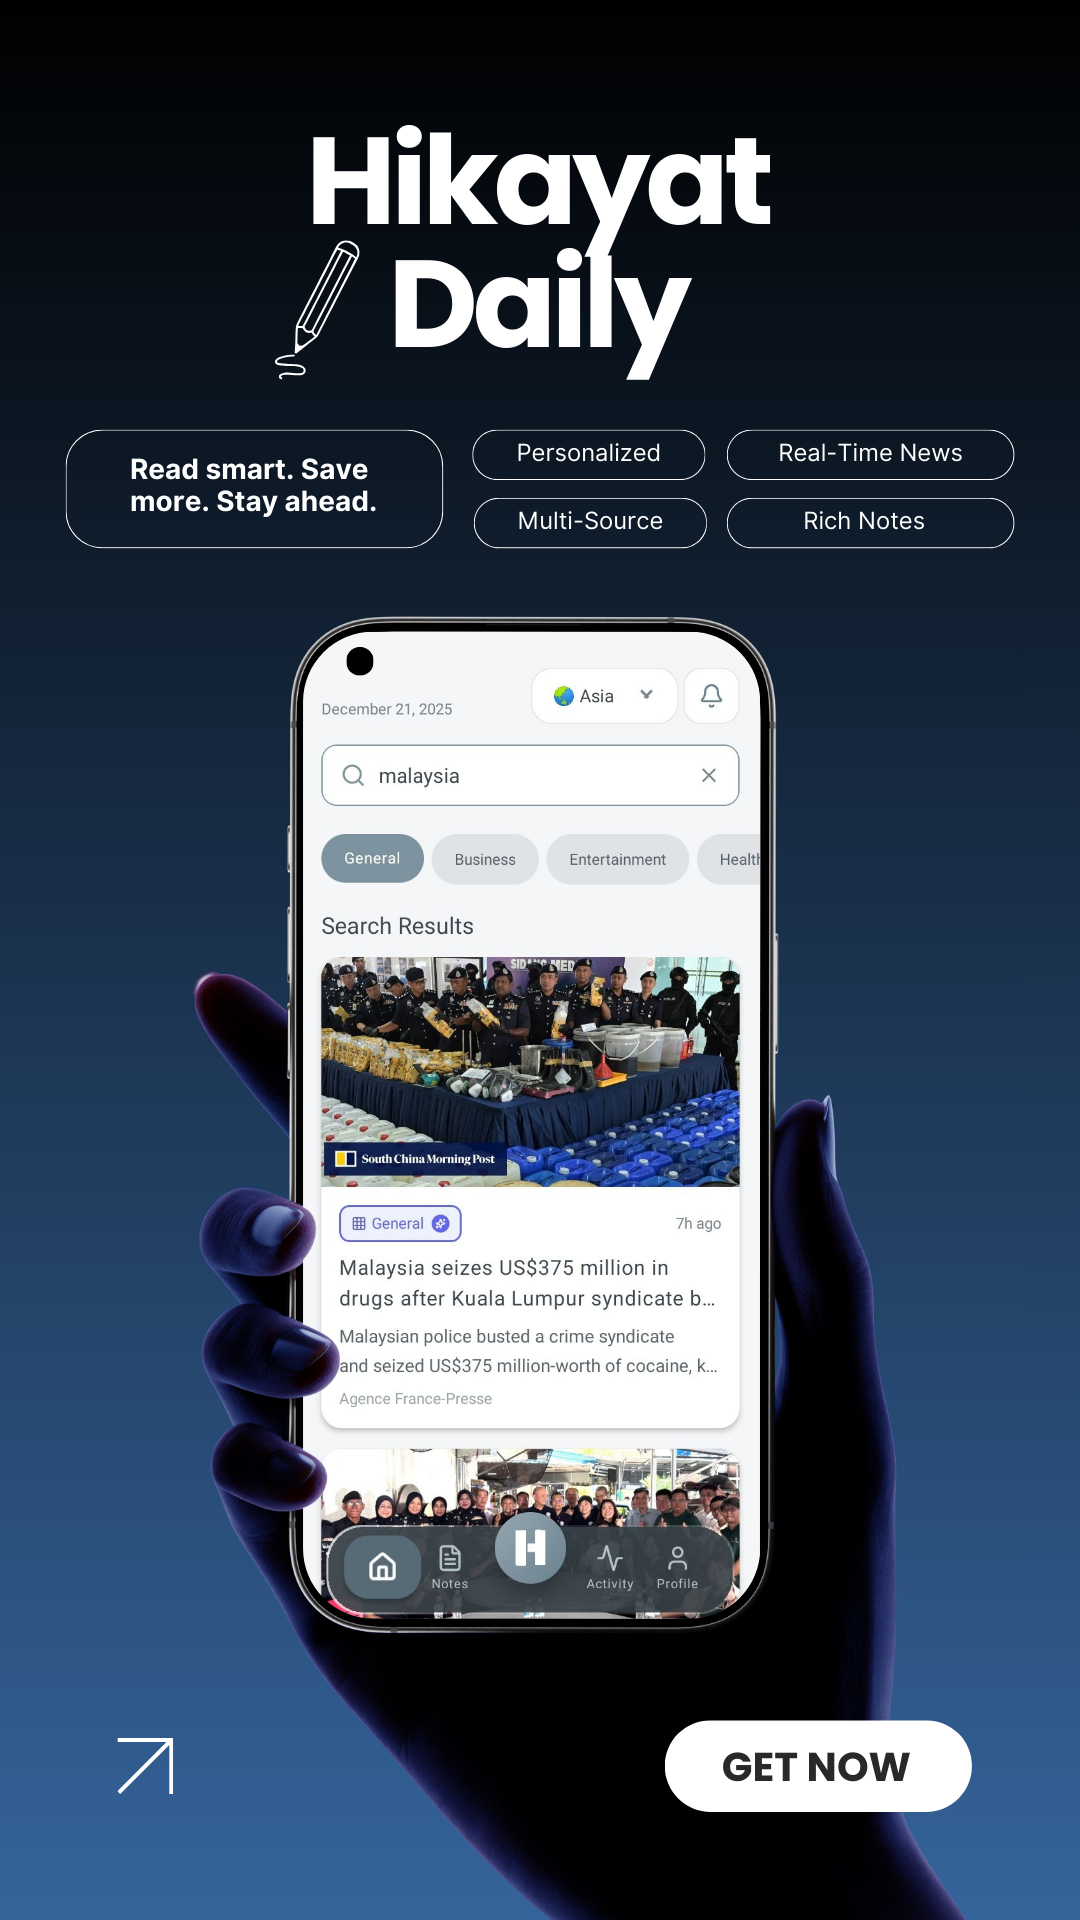
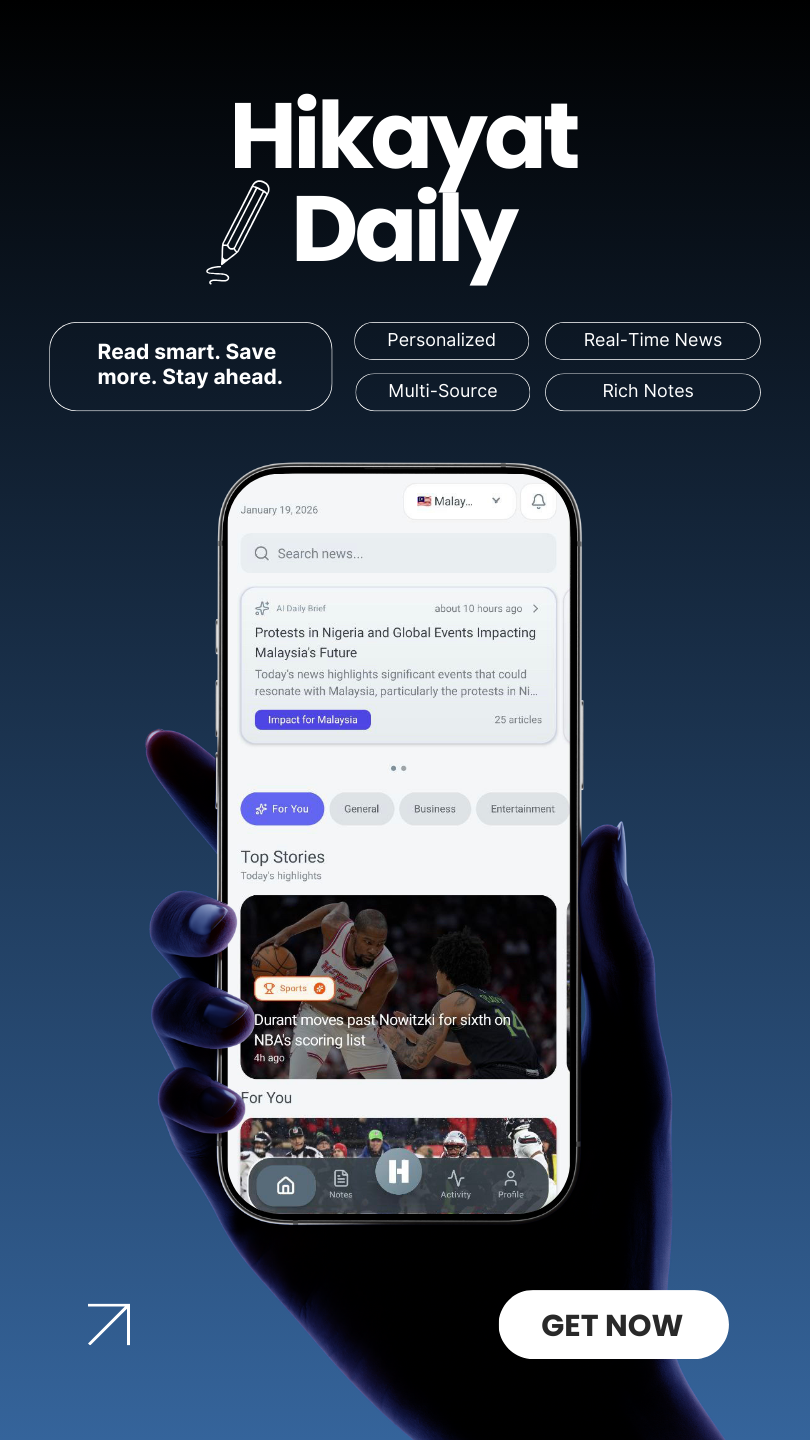
enhance: add more screenshot and fix action button

diff --git a/index.html b/index.html
@@ -3,19 +3,121 @@
 <head>
   <meta charset="UTF-8" />
   <meta name="viewport" content="width=device-width, initial-scale=1.0" />
-  <meta name="description" content="Hikayat Daily – Your AI-powered news companion. Stay informed, stay inspired with personalized news, smart summaries, and note-taking for the Asia-Pacific region." />
-  <meta name="keywords" content="news app, AI news, Malaysia news, Asia news, news aggregator, note taking, reading analytics" />
-  <meta property="og:title" content="Hikayat Daily - Stay Informed, Stay Inspired" />
-  <meta property="og:description" content="AI-powered news intelligence with personalized feeds, smart summaries, and integrated note-taking." />
-  <meta property="og:image" content="/assets/HikayatDaily.png" />
+  
+  <!-- Primary Meta Tags -->
+  <title>Hikayat Daily - AI-Powered News App | Stay Informed, Stay Inspired</title>
+  <meta name="title" content="Hikayat Daily - AI-Powered News App | Stay Informed, Stay Inspired" />
+  <meta name="description" content="Hikayat Daily is your AI-powered news companion. Get personalized news, smart AI summaries, note-taking, and reading analytics. Available on Android with focus on Malaysia and Asia-Pacific news." />
+  <meta name="keywords" content="news app, AI news, Malaysia news, Asia news, Singapore news, news aggregator, note taking app, reading analytics, personalized news, AI summaries, daily brief, Hikayat Daily, Asia Pacific news, breaking news Malaysia" />
+  <meta name="author" content="Hikayat Daily" />
+  <meta name="robots" content="index, follow" />
+  <meta name="language" content="English" />
+  <meta name="revisit-after" content="7 days" />
+  <meta name="theme-color" content="#0D9488" />
+  
+  <!-- Canonical URL -->
+  <link rel="canonical" href="https://hikayatdaily.com/" />
+  
+  <!-- Open Graph / Facebook -->
   <meta property="og:type" content="website" />
+  <meta property="og:url" content="https://hikayatdaily.com/" />
+  <meta property="og:title" content="Hikayat Daily - AI-Powered News App | Stay Informed, Stay Inspired" />
+  <meta property="og:description" content="Your AI-powered news companion. Get personalized news, smart AI summaries, and integrated note-taking. Now available on Android." />
+  <meta property="og:image" content="https://hikayatdaily.com/assets/HikayatDaily.png" />
+  <meta property="og:image:width" content="1200" />
+  <meta property="og:image:height" content="630" />
+  <meta property="og:site_name" content="Hikayat Daily" />
+  <meta property="og:locale" content="en_US" />
+  
+  <!-- Twitter -->
   <meta name="twitter:card" content="summary_large_image" />
-  <title>Hikayat Daily - Stay Informed, Stay Inspired</title>
+  <meta name="twitter:url" content="https://hikayatdaily.com/" />
+  <meta name="twitter:title" content="Hikayat Daily - AI-Powered News App | Stay Informed, Stay Inspired" />
+  <meta name="twitter:description" content="Your AI-powered news companion. Get personalized news, smart AI summaries, and integrated note-taking. Now available on Android." />
+  <meta name="twitter:image" content="https://hikayatdaily.com/assets/HikayatDaily.png" />
+  
+  <!-- Apple Meta Tags -->
+  <meta name="apple-mobile-web-app-capable" content="yes" />
+  <meta name="apple-mobile-web-app-status-bar-style" content="default" />
+  <meta name="apple-mobile-web-app-title" content="Hikayat Daily" />
+  <link rel="apple-touch-icon" href="/assets/HikayatDaily.png" />
+  
+  <!-- Android Meta Tags -->
+  <meta name="mobile-web-app-capable" content="yes" />
+  <link rel="manifest" href="/manifest.json" />
+  
+  <!-- Favicon -->
   <link rel="icon" type="image/png" href="/assets/HikayatDaily.png" />
+  <link rel="icon" type="image/png" sizes="32x32" href="/assets/HikayatDaily.png" />
+  <link rel="icon" type="image/png" sizes="16x16" href="/assets/HikayatDaily.png" />
   <link rel="preconnect" href="https://fonts.googleapis.com" />
   <link rel="preconnect" href="https://fonts.gstatic.com" crossorigin />
   <link href="https://fonts.googleapis.com/css2?family=Roboto:wght@300;400;500;700;900&display=swap" rel="stylesheet" />
   <link rel="stylesheet" href="/styles.css" />
+  
+  <!-- Structured Data (JSON-LD) for Rich Snippets -->
+  <script type="application/ld+json">
+  {
+    "@context": "https://schema.org",
+    "@type": "MobileApplication",
+    "name": "Hikayat Daily",
+    "description": "AI-powered news companion with personalized feeds, smart summaries, and integrated note-taking for the Asia-Pacific region.",
+    "applicationCategory": "NewsApplication",
+    "operatingSystem": "Android",
+    "offers": {
+      "@type": "Offer",
+      "price": "0",
+      "priceCurrency": "USD"
+    },
+    "aggregateRating": {
+      "@type": "AggregateRating",
+      "ratingValue": "5",
+      "ratingCount": "1"
+    },
+    "author": {
+      "@type": "Organization",
+      "name": "Hikayat Daily",
+      "url": "https://hikayatdaily.com"
+    },
+    "downloadUrl": "https://play.google.com/store/apps/details?id=com.hikayatdailyglobal",
+    "screenshot": "https://hikayatdaily.com/assets/Personalized.png",
+    "featureList": [
+      "AI-powered news summaries",
+      "Personalized news feed",
+      "Integrated note-taking",
+      "Reading analytics",
+      "Multi-region news coverage",
+      "Offline reading support"
+    ]
+  }
+  </script>
+  <script type="application/ld+json">
+  {
+    "@context": "https://schema.org",
+    "@type": "Organization",
+    "name": "Hikayat Daily",
+    "url": "https://hikayatdaily.com",
+    "logo": "https://hikayatdaily.com/assets/HikayatDaily.png",
+    "description": "Your AI-powered news companion. Stay informed, stay inspired.",
+    "email": "hikayatdaily.app@gmail.com",
+    "sameAs": [
+      "https://play.google.com/store/apps/details?id=com.hikayatdailyglobal"
+    ]
+  }
+  </script>
+  <script type="application/ld+json">
+  {
+    "@context": "https://schema.org",
+    "@type": "WebSite",
+    "name": "Hikayat Daily",
+    "url": "https://hikayatdaily.com",
+    "potentialAction": {
+      "@type": "SearchAction",
+      "target": "https://hikayatdaily.com/?q={search_term_string}",
+      "query-input": "required name=search_term_string"
+    }
+  }
+  </script>
 </head>
 <body>
   <!-- Navigation -->
@@ -91,7 +193,7 @@
           </div>
         </div>
         <div class="hero-visual">
-          <img src="/assets/Personalized.png" alt="Hikayat Daily App" class="hero-mockup" />
+          <img src="/assets/HeroIntro.png" alt="Hikayat Daily App" class="hero-mockup" />
         </div>
       </div>
     </div>
@@ -224,11 +326,20 @@
     </div>
     <div class="screenshots-scroll">
       <div style="width: 24px; flex-shrink: 0;"></div>
+
       <article class="screenshot-card">
         <img src="/assets/Intro.png" alt="Welcome Screen" loading="lazy" />
         <div class="screenshot-card-body">
           <h3>Welcome Experience</h3>
           <p>Clean onboarding that gets you started in seconds.</p>
+        </div>
+      </article>
+      
+      <article class="screenshot-card">
+        <img src="/assets/AIsummary.png" alt="AI Summary" loading="lazy" />
+        <div class="screenshot-card-body">
+          <h3>AI Summary</h3>
+          <p>Smart summaries of the top stories you need to know.</p>
         </div>
       </article>
       <article class="screenshot-card">
@@ -252,6 +363,7 @@
           <p>Track your reading habits and progress.</p>
         </div>
       </article>
+      
       <div style="width: 24px; flex-shrink: 0;"></div>
     </div>
   </section>

diff --git a/privacy-policy.html b/privacy-policy.html
@@ -3,8 +3,32 @@
 <head>
   <meta charset="UTF-8" />
   <meta name="viewport" content="width=device-width, initial-scale=1.0" />
-  <title>Privacy Policy · Hikayat Daily</title>
+  
+  <!-- Primary Meta Tags -->
+  <title>Privacy Policy - Hikayat Daily | Your Data Security</title>
+  <meta name="title" content="Privacy Policy - Hikayat Daily | Your Data Security" />
+  <meta name="description" content="Learn how Hikayat Daily protects your privacy. Read our privacy policy about data collection, usage, storage, and your rights as a user." />
+  <meta name="robots" content="index, follow" />
+  <meta name="theme-color" content="#0D9488" />
+  
+  <!-- Canonical URL -->
+  <link rel="canonical" href="https://hikayatdaily.com/privacy-policy.html" />
+  
+  <!-- Open Graph / Facebook -->
+  <meta property="og:type" content="website" />
+  <meta property="og:url" content="https://hikayatdaily.com/privacy-policy.html" />
+  <meta property="og:title" content="Privacy Policy - Hikayat Daily" />
+  <meta property="og:description" content="Learn how Hikayat Daily protects your privacy and handles your data." />
+  <meta property="og:image" content="https://hikayatdaily.com/assets/HikayatDaily.png" />
+  
+  <!-- Twitter -->
+  <meta name="twitter:card" content="summary" />
+  <meta name="twitter:title" content="Privacy Policy - Hikayat Daily" />
+  <meta name="twitter:description" content="Learn how Hikayat Daily protects your privacy and handles your data." />
+  
+  <!-- Favicon -->
   <link rel="icon" type="image/png" href="/assets/HikayatDaily.png" />
+  <link rel="apple-touch-icon" href="/assets/HikayatDaily.png" />
   <link rel="preconnect" href="https://fonts.googleapis.com" />
   <link rel="preconnect" href="https://fonts.gstatic.com" crossorigin />
   <link href="https://fonts.googleapis.com/css2?family=Roboto:wght@300;400;500;700;900&display=swap" rel="stylesheet" />

diff --git a/terms-of-service.html b/terms-of-service.html
@@ -3,8 +3,32 @@
 <head>
   <meta charset="UTF-8" />
   <meta name="viewport" content="width=device-width, initial-scale=1.0" />
-  <title>Terms of Service · Hikayat Daily</title>
+  
+  <!-- Primary Meta Tags -->
+  <title>Terms of Service - Hikayat Daily | User Agreement</title>
+  <meta name="title" content="Terms of Service - Hikayat Daily | User Agreement" />
+  <meta name="description" content="Read the Terms of Service for Hikayat Daily app. Understand your rights, responsibilities, and our service agreement." />
+  <meta name="robots" content="index, follow" />
+  <meta name="theme-color" content="#0D9488" />
+  
+  <!-- Canonical URL -->
+  <link rel="canonical" href="https://hikayatdaily.com/terms-of-service.html" />
+  
+  <!-- Open Graph / Facebook -->
+  <meta property="og:type" content="website" />
+  <meta property="og:url" content="https://hikayatdaily.com/terms-of-service.html" />
+  <meta property="og:title" content="Terms of Service - Hikayat Daily" />
+  <meta property="og:description" content="Read the Terms of Service for Hikayat Daily app." />
+  <meta property="og:image" content="https://hikayatdaily.com/assets/HikayatDaily.png" />
+  
+  <!-- Twitter -->
+  <meta name="twitter:card" content="summary" />
+  <meta name="twitter:title" content="Terms of Service - Hikayat Daily" />
+  <meta name="twitter:description" content="Read the Terms of Service for Hikayat Daily app." />
+  
+  <!-- Favicon -->
   <link rel="icon" type="image/png" href="/assets/HikayatDaily.png" />
+  <link rel="apple-touch-icon" href="/assets/HikayatDaily.png" />
   <link rel="preconnect" href="https://fonts.googleapis.com" />
   <link rel="preconnect" href="https://fonts.gstatic.com" crossorigin />
   <link href="https://fonts.googleapis.com/css2?family=Roboto:wght@300;400;500;700;900&display=swap" rel="stylesheet" />

diff --git a/delete-account.html b/delete-account.html
@@ -3,9 +3,20 @@
 <head>
   <meta charset="UTF-8" />
   <meta name="viewport" content="width=device-width, initial-scale=1.0" />
-  <meta name="description" content="Delete your HikayatDaily account and all associated data." />
-  <title>Delete Account · Hikayat Daily</title>
+  
+  <!-- Primary Meta Tags -->
+  <title>Delete Account - Hikayat Daily | Account Removal</title>
+  <meta name="title" content="Delete Account - Hikayat Daily | Account Removal" />
+  <meta name="description" content="Delete your Hikayat Daily account and all associated data. Follow simple steps to permanently remove your account." />
+  <meta name="robots" content="noindex, follow" />
+  <meta name="theme-color" content="#0D9488" />
+  
+  <!-- Canonical URL -->
+  <link rel="canonical" href="https://hikayatdaily.com/delete-account.html" />
+  
+  <!-- Favicon -->
   <link rel="icon" type="image/png" href="/assets/HikayatDaily.png" />
+  <link rel="apple-touch-icon" href="/assets/HikayatDaily.png" />
   <link rel="preconnect" href="https://fonts.googleapis.com" />
   <link rel="preconnect" href="https://fonts.gstatic.com" crossorigin />
   <link href="https://fonts.googleapis.com/css2?family=Roboto:wght@300;400;500;700;900&display=swap" rel="stylesheet" />

diff --git a/styles.css b/styles.css
@@ -540,7 +540,7 @@ body {
 
 .screenshots-scroll {
   display: flex;
-  gap: 24px;
+  gap: 20px;
   padding: 20px 0;
   overflow-x: auto;
   scrollbar-width: none;
